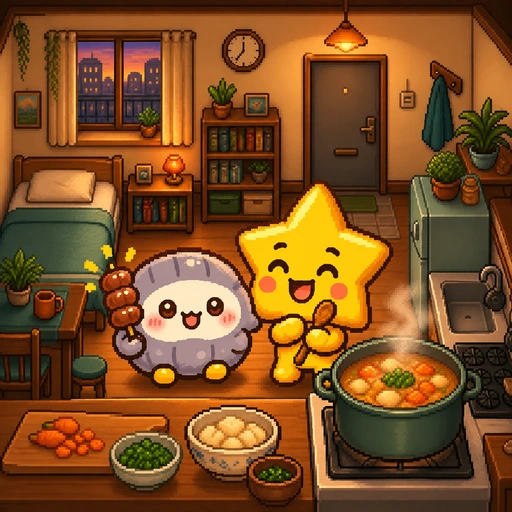
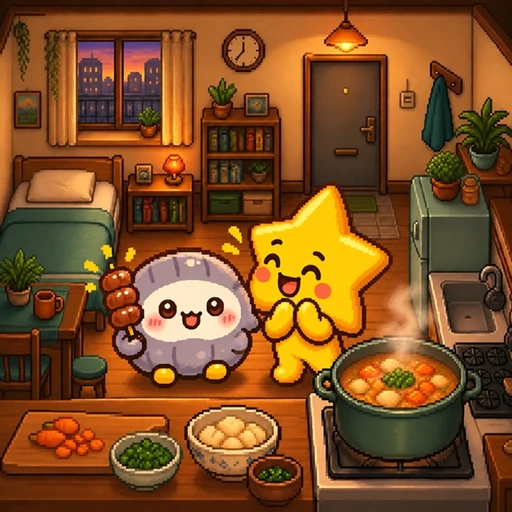
fix: エトキチをsunagimoへの専用リアクションに変更

Changed region(s): [[0.4375, 0.3438, 0.7812, 0.75], [0.6562, 0.75, 0.6875, 0.7812]]

diff --git a/src/rendering/room.ts b/src/rendering/room.ts
@@ -141,6 +141,8 @@ export async function renderRoom(
   };
   const sunagimoTexture =
     visit.scene.id === "sunagimoGrill" && guestTexture ? createSunagimoTexture(app, guestTexture) : undefined;
+  const reactionTexture =
+    visit.scene.id === "sunagimoGrill" && actionTexture ? createSunagimoTexture(app, actionTexture) : undefined;
   const companion =
     guestTexture && presentation.companion
       ? createCompanion(
@@ -179,7 +181,7 @@ export async function renderRoom(
       : createWalker(
           app,
           characterTexture,
-          actionTexture,
+          reactionTexture ?? actionTexture,
           visit,
           route,
           sceneLayout,
@@ -188,6 +190,9 @@ export async function renderRoom(
           (waypointIndex) => {
             for (const listener of waypointArrivalListeners) listener(waypointIndex);
           },
+          visit.scene.id === "sunagimoGrill" && companion instanceof AnimatedSprite
+            ? () => Math.max(0, companion.currentFrame - 1)
+            : undefined,
         );
   const comfortingMaineCoon =
     comfortingMaineCoonTexture && presentation.comfortingMaineCoon && getThunderComfortFrame
@@ -321,6 +326,7 @@ export async function renderRoom(
       lighting.destroy();
       app.destroy({ removeView: true }, { children: true });
       sunagimoTexture?.destroy(true);
+      reactionTexture?.destroy(true);
     },
   };
 }

diff --git a/src/rendering/room-character.ts b/src/rendering/room-character.ts
@@ -84,6 +84,7 @@ export function createWalker(
   callbacks: RoomCallbacks,
   hideShadow: boolean,
   onWaypointArrival: (waypointIndex: number) => void,
+  getReactionFrame?: () => number,
 ): Container {
   const frames = createDirectionFrames(sheet);
   const character = new AnimatedSprite(frames.down);
@@ -169,6 +170,18 @@ export function createWalker(
     route[0]?.actionOffsetY,
     route[0]?.actionScale,
   );
+
+  if (action && getReactionFrame) {
+    // 相手の姿を基準にすることで、別々のループの周期がずれるのを防ぐ。
+    const reactionFrames = actionFrameRows[0] ?? [];
+    action.stop();
+    action.textures = reactionFrames;
+    const updateReaction = (): void => {
+      action.gotoAndStop(getReactionFrame());
+    };
+    updateReaction();
+    app.ticker.add(updateReaction);
+  }
 
   if (visit.scene.id === "mimizouVisit") {
     const baseY = actor.y;

diff --git a/src/content/scene-presentations.ts b/src/content/scene-presentations.ts
@@ -615,7 +615,7 @@ export const SCENE_PRESENTATIONS: Readonly<Record<SceneId, ScenePresentationDefi
       movement: "nonWalking",
       waypoints: [{ destination: point(146, 284), pauseMs: 5000, action: true }],
     },
-    action: { assetName: "etokichi-breakfast-pixel.webp" },
+    action: { assetName: "etokichi-watching-sunagimo-pixel.webp" },
     observations: {
       stove: "夕食の鍋がことこと煮えている。隣ではsunagimoが串の焼き色を真剣に確かめている。",
       diningSet: "二人分のお皿が、焼きたての串を待っている。",

diff --git a/tests/scene-presentations.spec.ts b/tests/scene-presentations.spec.ts
@@ -853,7 +853,7 @@ describe("values derived from the scene presentation table", () => {
       wateringPlants: "etokichi-watering-directions-pixel.webp",
       muddyReturn: "etokichi-muddy-return-pixel.webp",
       simmeringDinner: "etokichi-watching-pot-up-right-pixel.webp",
-      sunagimoGrill: "etokichi-breakfast-pixel.webp",
+      sunagimoGrill: "etokichi-watching-sunagimo-pixel.webp",
       foldingLaundry: "etokichi-folding-laundry-pixel.webp",
       tatsuoTooComfortable: "etokichi-troubled-pixel.webp",
       packingTomorrow: "etokichi-packing-pixel.webp",

diff --git a/docs/sunagimo-imagegen.md b/docs/sunagimo-imagegen.md
@@ -8,7 +8,28 @@
 
 透明背景を依頼した初回出力は、アルファのない市松模様だった。組み込みツールで背景だけをマゼンタへ変更した原画を保存し、部屋の生成時にGPUで背景を透過へ一度焼き込む。キャラクターの白い顔や灰紫色は保持する。4コマはこのテクスチャを共有し、部屋を閉じると破棄する。
 
-## プロンプト
+## エトキチのリアクションへの差し替え
+
+調理アニメーションを専用の3コマへ差し替えた。sunagimoが串を確かめる間は見守り、目を輝かせると喜び、串を見せると手を合わせて笑う。sunagimoの現在コマを参照して同期する。図鑑のスプーンも除き、同じ役割へ揃えた。
+
+- 方式: 組み込みimagegen
+- 原画: `assets-src/etokichi-watching-sunagimo-pixel.webp`
+- 部屋用: `public/assets/etokichi-watching-sunagimo-pixel.webp`、360×120
+- 図鑑用: `public/assets/collection/sunagimo-grill.webp`
+
+### 専用リアクションのプロンプト
+
+```text
+Use case: stylized-concept. Make a NEW dedicated Etokichi reaction sprite sheet, using reference only for exact character identity and pixel art style. Horizontal 3:1 canvas, 1536x512, exactly THREE equal square cells. In every cell Etokichi stands at same scale, same feet baseline near bottom and same center, facing three-quarter LEFT toward a shorter friend just offscreen left. Etokichi is the yellow FIVE POINT STAR-headed little character with small yellow body, rounded tiny hands and feet, black eyes and orange pink cheeks. All three poses have EMPTY HANDS. Frame 1: quietly looking down-left at friend's skewer, attentive curious smile, arms relaxed. Frame 2: delighted surprised smile, leans slightly toward friend, hands near chest. Frame 3: eyes smiling closed, laughing warmly at friend, hands together in a small happy applause. Simple subtle reaction, NOT cooking. NO cookware, NO utensils, NO food, NO other character, NO table, NO letters, NO speech bubbles, NO symbols. Match reference's chunky crisp restrained pixel shading, no new accessories. Background uniform flat pure #ff00ff magenta for runtime chroma key, no checkerboard, no gradient. Leave clear padding around every sprite, no grid lines. Character occupies about 85% height in each square cell.
+```
+
+### 図鑑修正のプロンプト
+
+```text
+Use case: precise-object-edit. Edit this collectible pixel art illustration ONLY the yellow star Etokichi character: remove the wooden spoon from his hands, show him with empty hands together in delighted applause, turn his star face and joyful gaze toward sunagimo on his LEFT. Etokichi is watching his friend and reacting, not cooking. Preserve sunagimo exactly, its skewer with three meat pieces, whole room, pot, furniture, warm evening lighting, composition and pixel art style. No other changes, no text.
+```
+
+## 初回制作のプロンプト
 
 ### スプライト
 
@@ -27,4 +48,3 @@ Use case: precise-object-edit. Preserve all FOUR sunagimo character poses and th
 ```text
 Use case: illustration-story. Create a square pixel-art collectible illustration for a cozy room game. Image 1 is exact sunagimo character reference, image 2 is room mood and exact yellow star Etokichi character style. Evening warm light in the small apartment kitchen. Sunagimo and Etokichi stand side by side preparing dinner. Sunagimo proudly holds up its skewer with exactly THREE browned meat pieces, bright delighted eyes, Etokichi laughs warmly at the earnest cooking inspector. Sunagimo retains round grey lavender grooved gizzard body, cream face, brown eyes, pink cheeks, yellow oval feet, short arms, no ears/tail/clothing. Etokichi retains yellow five-point STAR head, small yellow body, orange cheeks, no ears, no hat. Coherent pixel art matching room reference; make both characters equally legible in center foreground, sunagimo slightly smaller than Etokichi. Existing kitchen stove and simmering pot at right; no new fire or grill in room. Warm sunset window, wooden furniture, comfortable domestic mood. No text or speech bubbles, no logo. 1024x1024.
 ```
-

diff --git a/docs/prototype-spec.md b/docs/prototype-spec.md
@@ -57,6 +57,7 @@
     - `焼き加減はまかせるギモ`は`夕食をことこと煮込む`の発見後に解放する
 - `焼き加減はまかせるギモ`では、sunagimoが串を見る、裏返す、目を輝かせる、エトキチへ見せる4つの姿を繰り返す
     - 選択肢のない見守りシーン。sunagimoをタップすると姿に応じた台詞を表示し、すべて「ギモ」で終える
+    - エトキチは調理道具を持たずsunagimoへ顔を向ける。串の確認中は見守り、食べごろに喜び、串を見せられると手を合わせて笑う専用アニメーションを使う
     - 外見は灰紫色の丸い体、白い顔、黄色い足、3つの具がついた串を持つ原キャラクターに合わせる
     - 素材と生成プロンプト: [sunagimoの画像制作](sunagimo-imagegen.md)
 - 条件の追加前に対象シーンを発見済みなら、前提シーンが未発見でも解放済みとして扱う
